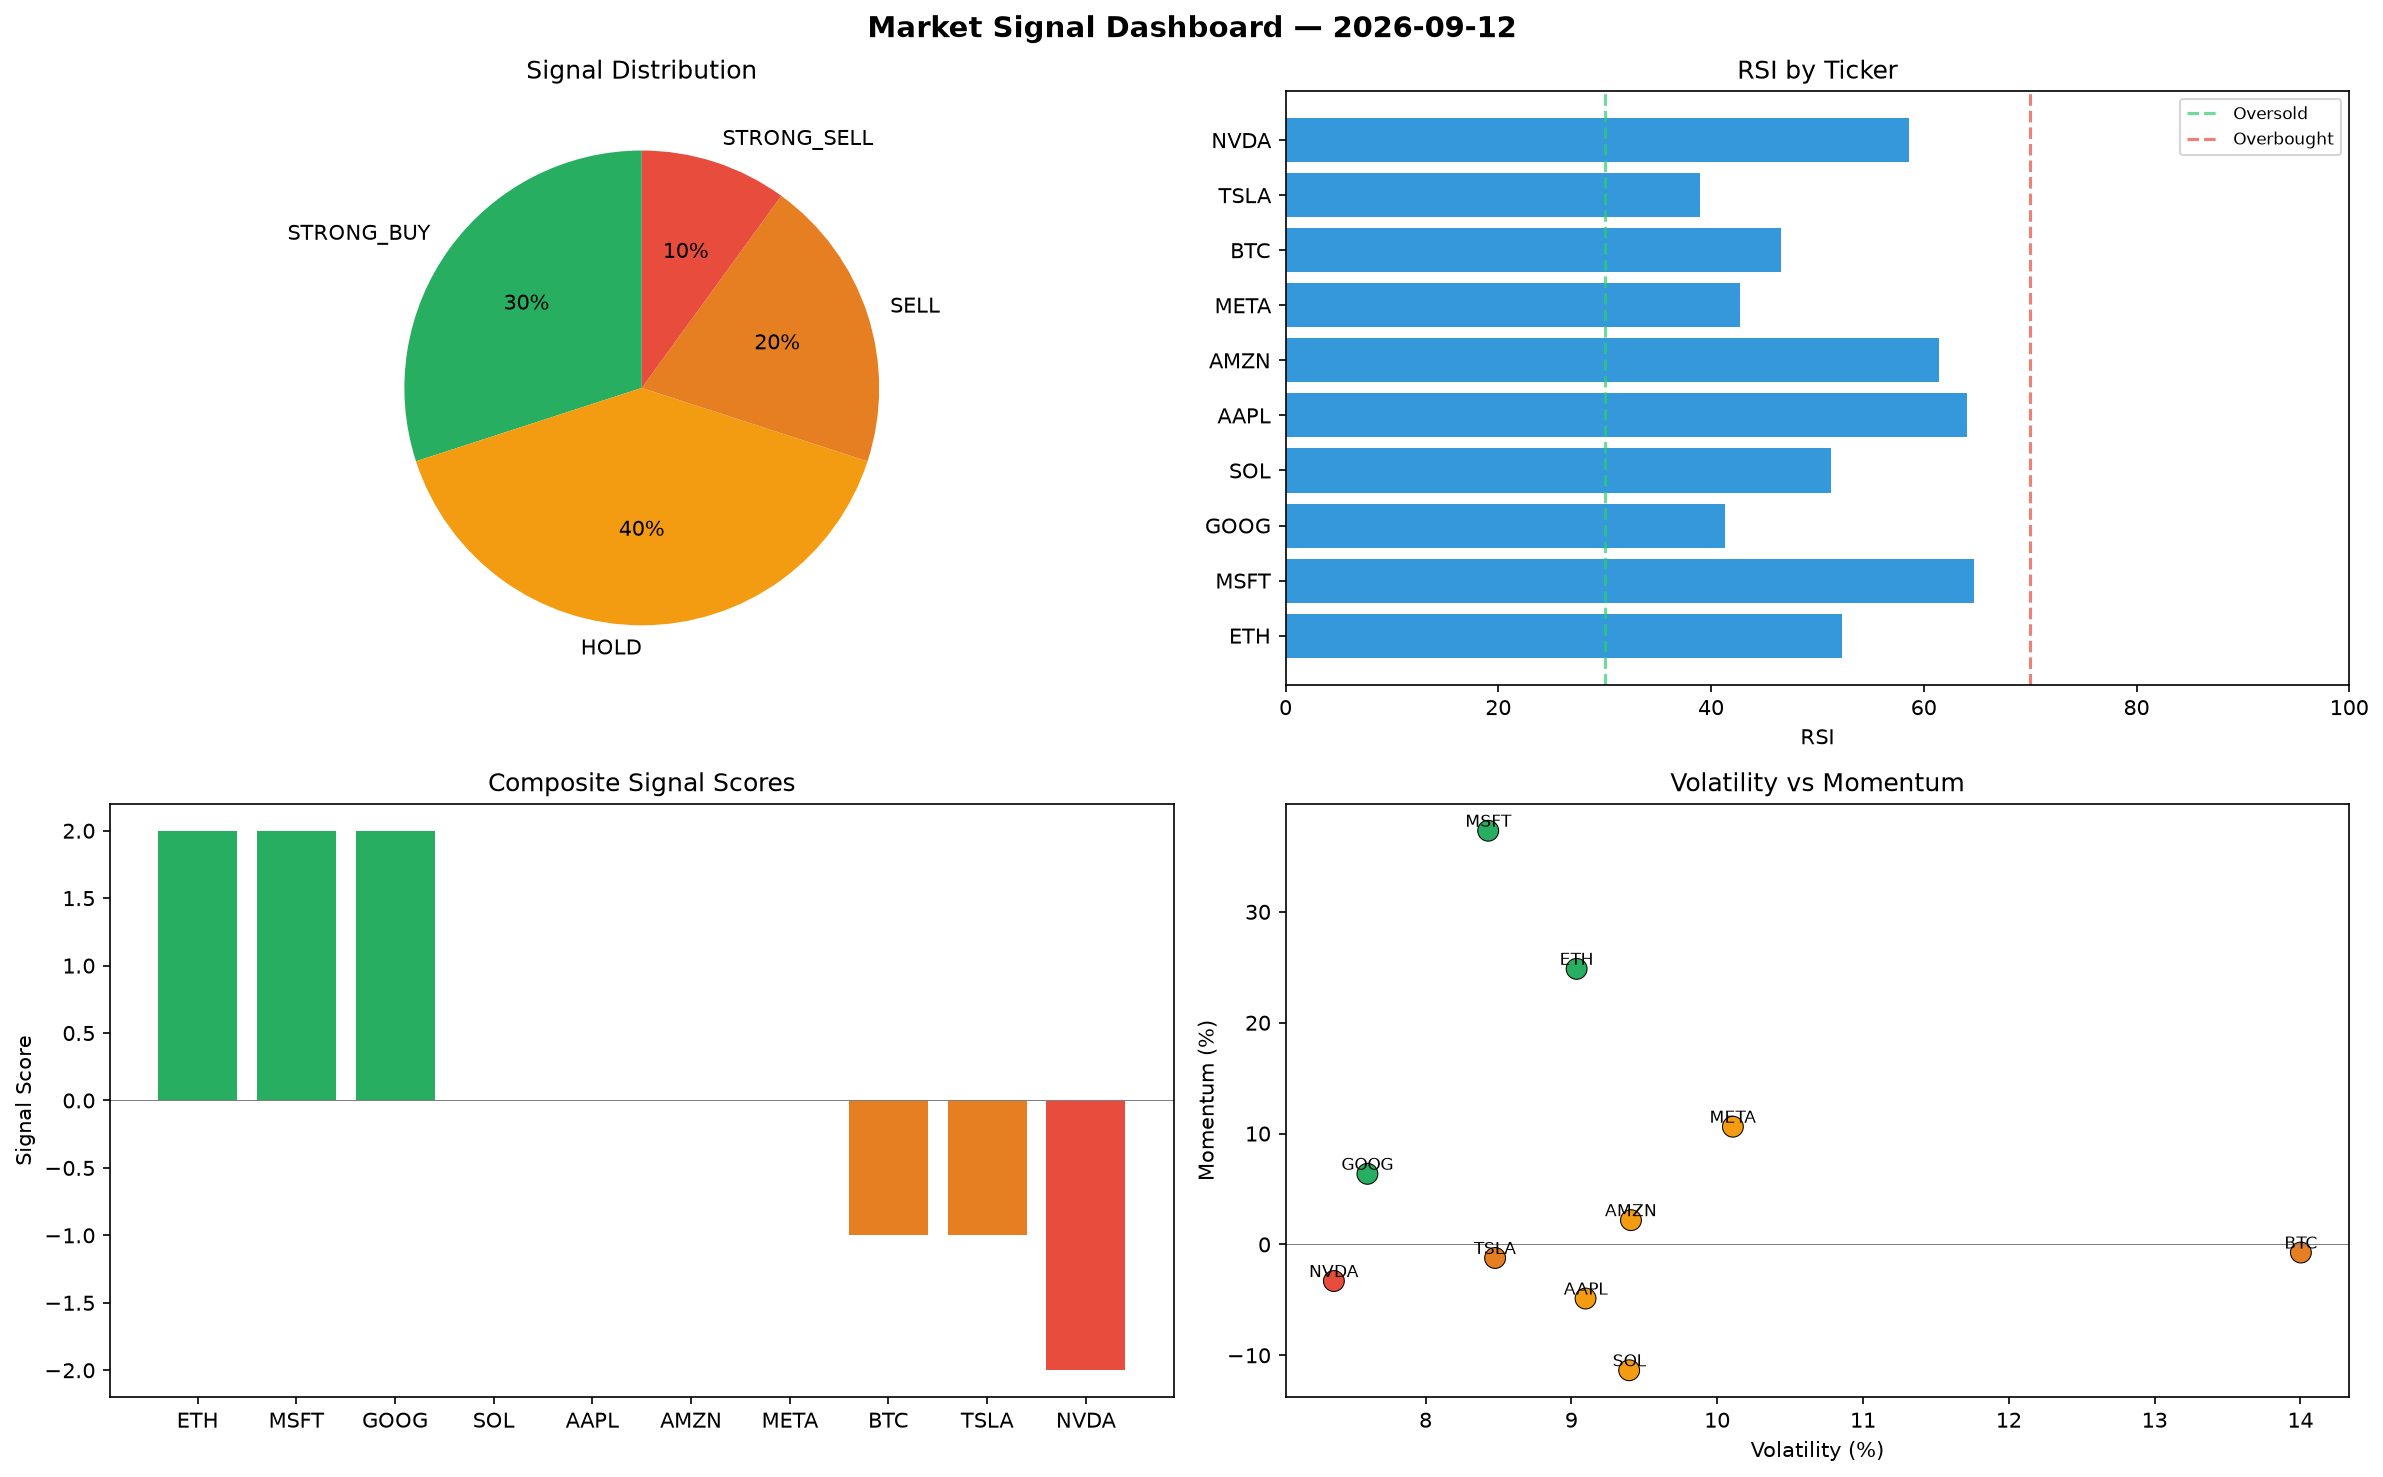
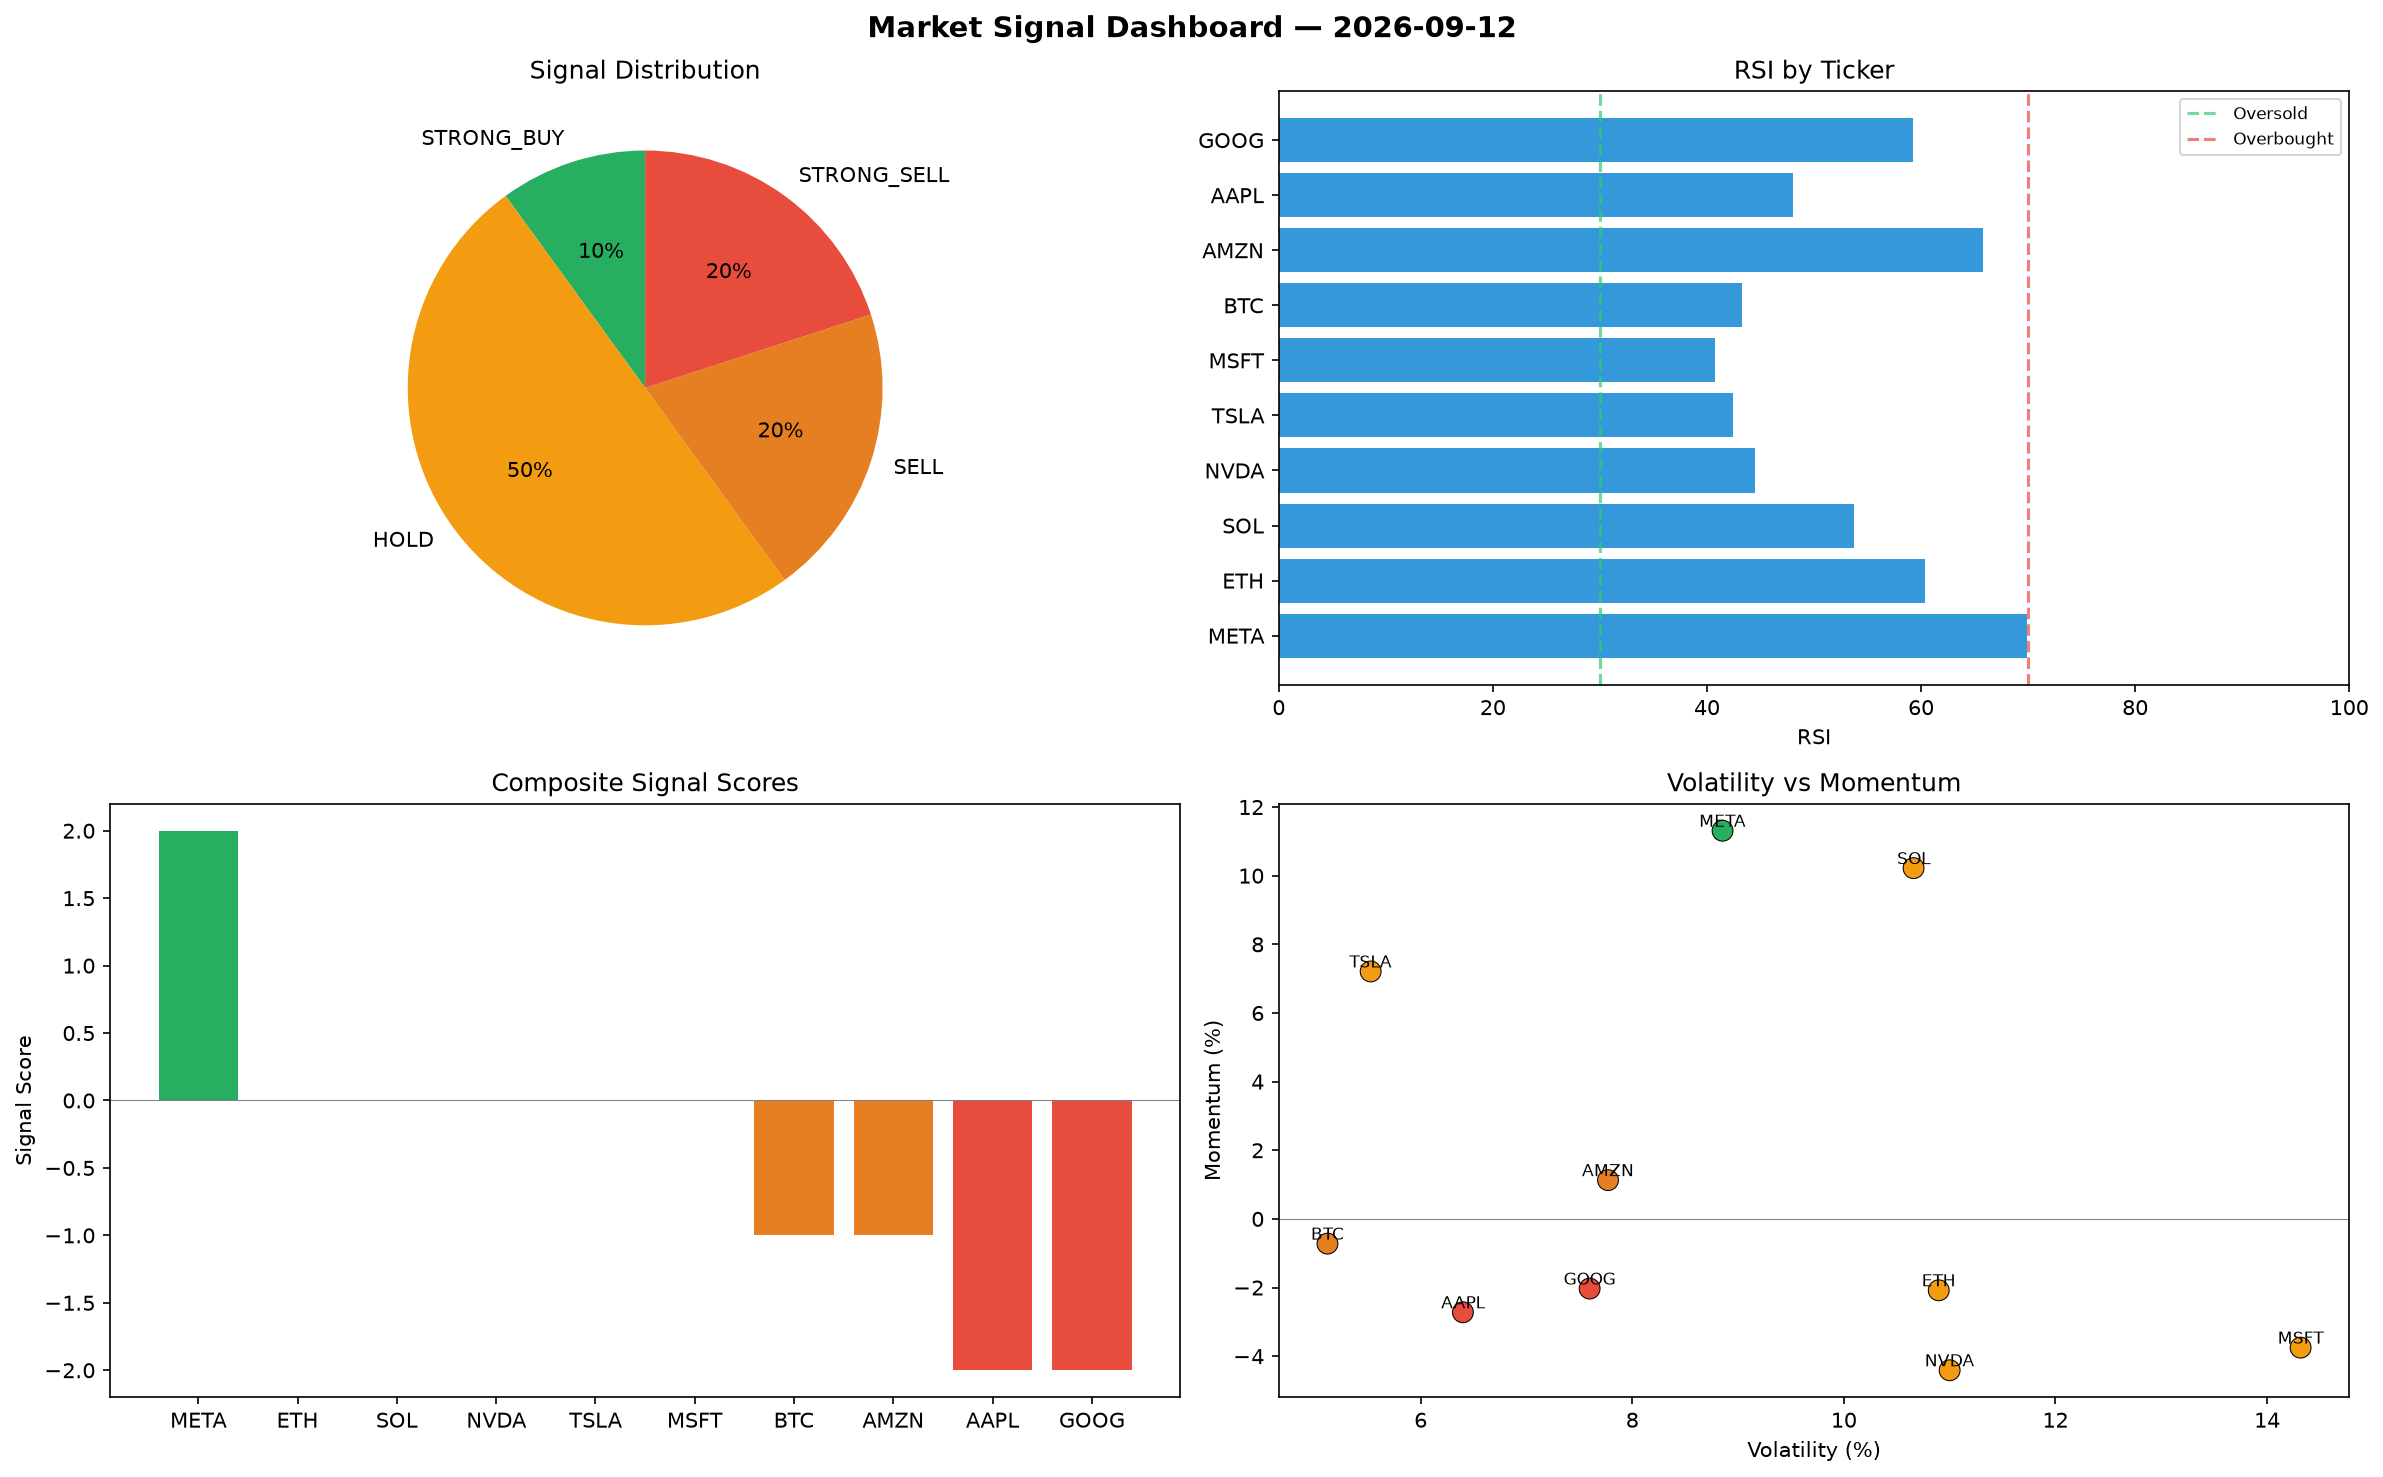
automated-bots: market signals 2026-09-12T12:15

diff --git a/logs/2026-09-12.md b/logs/2026-09-12.md
@@ -1,6 +1,6 @@
 # Market Signal Report — 2026-09-12
 
-**Run ID:** `1a71a3752f` | **Buy:** 3 | **Sell:** 3 | **Hold:** 4
+**Run ID:** `1082a6bd2d` | **Buy:** 1 | **Sell:** 4 | **Hold:** 5
 
 ![Dashboard](2026-09-12_dashboard.png)
 
@@ -8,28 +8,28 @@
 
 | Ticker | Price | Signal | Score | RSI | Momentum | Confidence |
 |--------|-------|--------|-------|-----|----------|------------|
-| ETH | $2200.98 | **STRONG_BUY** | 2 | 52.29 | 0.2486 | 0.5 |
-| MSFT | $245.22 | **STRONG_BUY** | 2 | 64.75 | 0.3732 | 0.5 |
-| GOOG | $2013.84 | **STRONG_BUY** | 2 | 41.34 | 0.0637 | 0.5 |
-| SOL | $2673.4 | **HOLD** | 0 | 51.25 | -0.1135 | 0.0 |
-| AAPL | $4180.11 | **HOLD** | 0 | 64.03 | -0.0488 | 0.0 |
-| AMZN | $3206.53 | **HOLD** | 0 | 61.47 | 0.0219 | 0.0 |
-| META | $4414.53 | **HOLD** | 0 | 42.76 | 0.1062 | 0.0 |
-| BTC | $3480.74 | **SELL** | -1 | 46.57 | -0.0073 | 0.25 |
-| TSLA | $2113.34 | **SELL** | -1 | 38.98 | -0.0122 | 0.25 |
-| NVDA | $4356.45 | **STRONG_SELL** | -2 | 58.61 | -0.033 | 0.5 |
+| META | $2276.33 | **STRONG_BUY** | 2 | 69.93 | 0.1131 | 0.5 |
+| ETH | $1233.08 | **HOLD** | 0 | 60.39 | -0.0208 | 0.0 |
+| SOL | $3194.96 | **HOLD** | 0 | 53.73 | 0.1022 | 0.0 |
+| NVDA | $4672.13 | **HOLD** | 0 | 44.48 | -0.0441 | 0.0 |
+| TSLA | $4296.79 | **HOLD** | 0 | 42.43 | 0.0721 | 0.0 |
+| MSFT | $716.51 | **HOLD** | 0 | 40.77 | -0.0375 | 0.0 |
+| BTC | $4286.34 | **SELL** | -1 | 43.28 | -0.0072 | 0.25 |
+| AMZN | $2918.78 | **SELL** | -1 | 65.83 | 0.0113 | 0.25 |
+| AAPL | $3825.94 | **STRONG_SELL** | -2 | 47.99 | -0.0272 | 0.5 |
+| GOOG | $2872.29 | **STRONG_SELL** | -2 | 59.25 | -0.0203 | 0.5 |
 
 ## Delta vs Yesterday
 
 | Ticker | Today | Yesterday | Price Change | Signal Changed |
 |--------|-------|-----------|-------------|----------------|
-| ETH | STRONG_BUY | BUY | 📈 18.31% | ⚠ YES |
-| MSFT | STRONG_BUY | HOLD | 📉 -88.97% | ⚠ YES |
-| GOOG | STRONG_BUY | STRONG_BUY | 📈 1454.61% | — |
-| SOL | HOLD | BUY | 📈 1204.16% | ⚠ YES |
-| AAPL | HOLD | STRONG_SELL | 📉 -13.85% | ⚠ YES |
-| AMZN | HOLD | HOLD | 📈 101.74% | — |
-| META | HOLD | STRONG_SELL | 📈 11.66% | ⚠ YES |
-| BTC | SELL | STRONG_BUY | 📈 176.27% | ⚠ YES |
-| TSLA | SELL | STRONG_SELL | 📉 -11.25% | ⚠ YES |
-| NVDA | STRONG_SELL | STRONG_SELL | 📈 70.5% | — |
+| META | STRONG_BUY | STRONG_SELL | 📉 -42.42% | ⚠ YES |
+| ETH | HOLD | BUY | 📉 -33.72% | ⚠ YES |
+| SOL | HOLD | BUY | 📈 1458.59% | ⚠ YES |
+| NVDA | HOLD | STRONG_SELL | 📈 82.86% | ⚠ YES |
+| TSLA | HOLD | STRONG_SELL | 📈 80.44% | ⚠ YES |
+| MSFT | HOLD | HOLD | 📉 -67.76% | — |
+| BTC | SELL | STRONG_BUY | 📈 240.21% | ⚠ YES |
+| AMZN | SELL | HOLD | 📈 83.64% | ⚠ YES |
+| AAPL | STRONG_SELL | STRONG_SELL | 📉 -21.15% | — |
+| GOOG | STRONG_SELL | STRONG_BUY | 📈 2117.3% | ⚠ YES |
